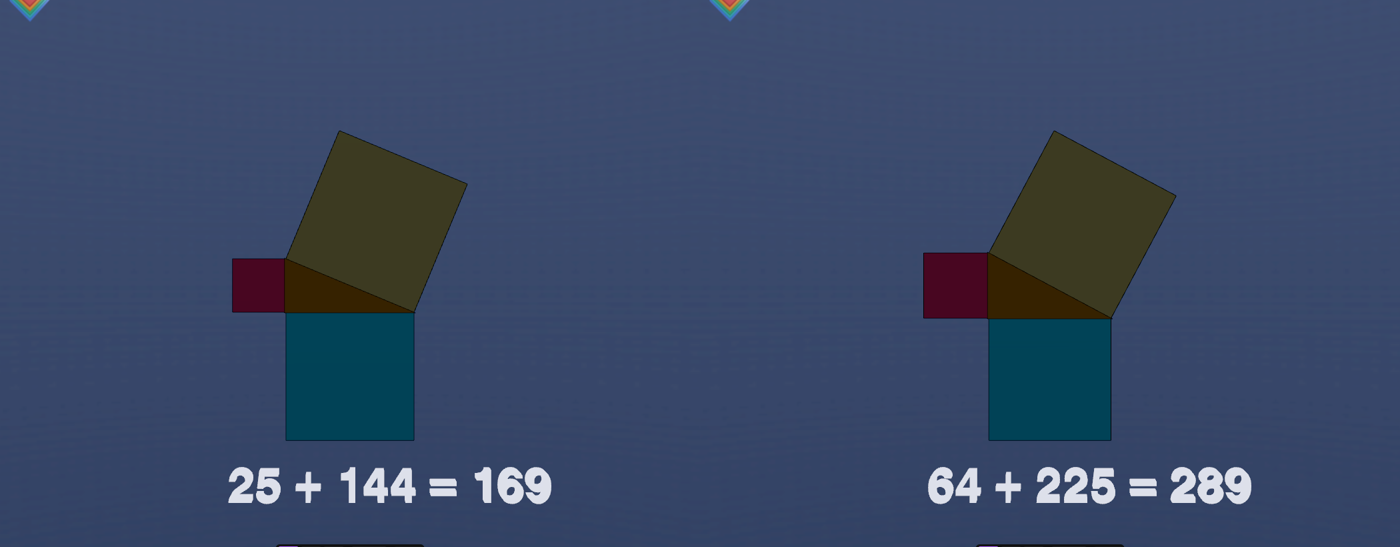
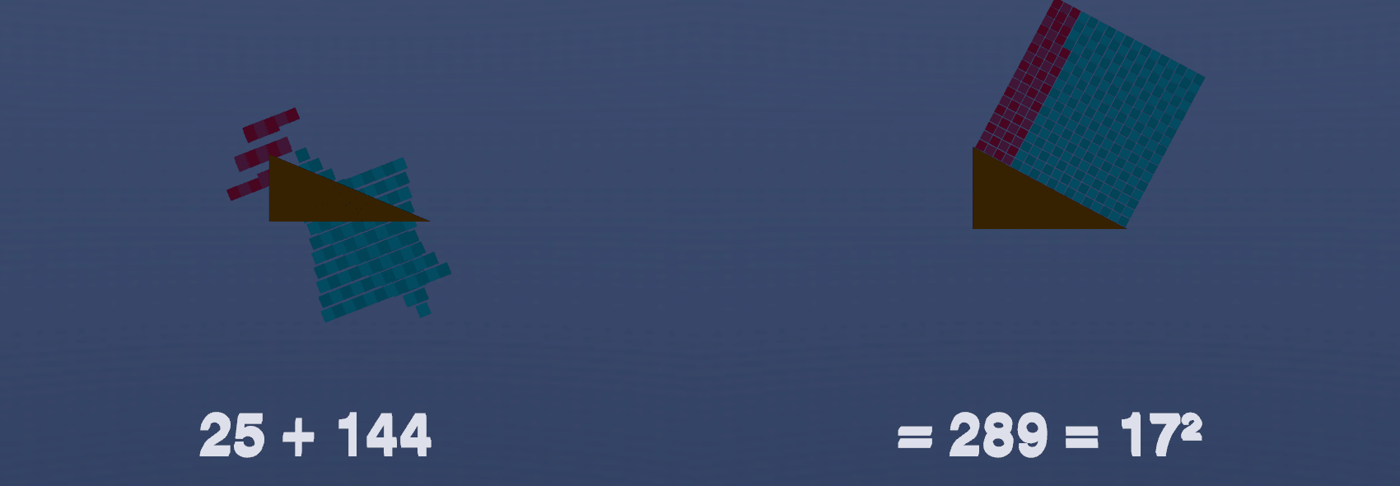
Pythagorean short: the 5-12-13 and 8-15-17 triples move their tiles onto the hypotenuse too
Tiles in a checkerboard on each leg, an empty landing pad of cell groups on
the hypotenuse, moveToEach over 3 s, as in the 3-4-5. Tutorial rebuilt around
it and checked against the published scene (22 tracks, 23 cues, 14 frames).

diff --git a/docs/about/tutorials/makeshort.html b/docs/about/tutorials/makeshort.html
@@ -312,11 +312,12 @@ $S('#eqn').at(60).change('a\u00B2 + b\u00B2 = c\u00B2', { transition: 'fade', du
 	<div class="note"><strong>A label per track.</strong> The two merging labels are faded out with one <code>$S</code> call each (not <code>$S('#three, #four')</code>), so each label keeps its own timeline track and the code panel reads label by label. Content is a step function: the text <em>is</em> whatever was keyed last; <code>transition: 'fade'</code> only cross-fades the swap (see <a href="../../../guides/ANIMATION.md">the animation guide</a>).</div>
 
 	<h2><span class="step">9</span> Two more triples, a quarter turn apart</h2>
-	<p class="lede">3-4-5 is not the only right triangle with whole-number sides. Two more, 5-12-13 and 8-15-17, get the same picture — a square on each leg and one on the hypotenuse — and they are placed around the camera instead of in front of it: the camera starts facing the first, and every quarter turn about Y (90°) brings the next into view. <code>makeTriple</code> builds one from its two legs and hypotenuse, scales it to about the height of the 3-4-5 so it fills the frame the same way, and turns it to face the camera that will be looking at it:</p>
-	<pre><code>// A Pythagorean triple p-q-c, laid out like the 3-4-5: a square on each leg and one on the hypotenuse.
-// The whole figure is scaled to about the height of the 3-4-5 and turned to face `yaw` degrees.
+	<p class="lede">3-4-5 is not the only right triangle with whole-number sides. Two more, 5-12-13 and 8-15-17, get the same treatment — tiles in a square on each leg that fly onto the square on the hypotenuse — and they are placed around the camera instead of in front of it: the camera starts facing the first, and every quarter turn about Y (90°) brings the next into view. <code>makeTriple</code> builds one from its two legs and hypotenuse, scales it to about the height of the 3-4-5 so it fills the frame the same way, and turns it to face the camera that will be looking at it. The hypotenuse square is made of <em>empty</em> groups, one per cell, because the tiles only need somewhere to land: they are never drawn.</p>
+	<pre><code>// A Pythagorean triple p-q-c, laid out like the 3-4-5 and built the same way: unit tiles in a square on
+// each leg, and an empty landing pad on the hypotenuse for them to fly onto. The figure is scaled to
+// about the height of the 3-4-5 and turned to face `yaw` degrees.
 function makeTriple(id, p, q, c, target, yaw) {
-  const k = 10 / (2 * q + p);                  // about the height of the 3-4-5 on screen
+  const k = 10 / (2 * q + p);
   const thin = 0.1 / k;                        // slab thickness, 0.1 in world units
   const outer = new Group();
   outer.name = id;
@@ -327,34 +328,62 @@ function makeTriple(id, p, q, c, target, yaw) {
   figure.position.set(-q / 2, -p / 2, 0);      // put the figure's bounding box on the target
   outer.add(figure);
 
-  const part = (name, geometry, material, x, y, rotZ) =&gt; {
-    const mesh = new Mesh(geometry, material);
-    mesh.name = `${id}-${name}`;
-    mesh.position.set(x, y, 0);
-    mesh.rotation.z = rotZ;
-    mesh.castShadow = mesh.receiveShadow = true;
-    mesh.userData.hasEdgeOutline = true;
-    figure.add(mesh);
+  const group = (name, x, y, rotZ) =&gt; {
+    const g = new Group();
+    g.name = `${id}-${name}`;
+    g.position.set(x, y, 0);
+    g.rotation.z = rotZ;
+    figure.add(g);
+    return g;
   };
-  const slab = (side, color) =&gt; [
-    new BoxGeometry(side, side, thin),
-    new MeshStandardMaterial({ color, roughness: 0.6, metalness: 0.2 })
-  ];
-  const triangle = new ExtrudeGeometry(
-    new Shape([new Vector2(0, 0), new Vector2(q, 0), new Vector2(0, p)]),
-    { depth: 1 / k, bevelEnabled: false }
+
+  const triangle = new Mesh(
+    new ExtrudeGeometry(new Shape([new Vector2(0, 0), new Vector2(q, 0), new Vector2(0, p)]), { depth: 1 / k, bevelEnabled: false }),
+    new MeshStandardMaterial({ color: 0xd99b30, roughness: 0.9, metalness: 1 })
   );
-  triangle.translate(0, 0, -0.5 / k);
-  part('tri', triangle, new MeshStandardMaterial({ color: 0xd99b30, roughness: 0.9, metalness: 1 }), 0, 0, 0);
-  part('p', ...slab(p, 0xff6b6b), -p / 2, p / 2, 0);                       // on the vertical leg
-  part('q', ...slab(q, 0x4ecdc4), q / 2, -q / 2, 0);                       // under the horizontal leg
-  part('c', ...slab(c, 0xffe08a), (p + q) / 2, (p + q) / 2, Math.atan2(q, p));   // on the hypotenuse
+  triangle.geometry.translate(0, 0, -0.5 / k);
+  triangle.name = `${id}-tri`;
+  figure.add(triangle);
+
+  // n x n tiles; tile (i, j) is centred at place(i, j). One shared geometry, and two shades in a
+  // checkerboard, so single tiles stay visible even when they are only a few pixels wide.
+  const square = (name, n, color, place) =&gt; {
+    const g = group(name, 0, 0, 0);
+    const geometry = new BoxGeometry(0.9, 0.9, thin);
+    const shade = [color, new Color(color).offsetHSL(0, 0, 0.09)].map(c =&gt; new MeshStandardMaterial({ color: c, roughness: 0.6, metalness: 0.2 }));
+    for (let i = 1; i &lt;= n; i++) {
+      for (let j = 1; j &lt;= n; j++) {
+        const tile = new Mesh(geometry, shade[(i + j) % 2]);
+        tile.name = `${id}-${name}.${i}.${j}`;
+        tile.position.set(...place(i, j), 0);
+        g.add(tile);
+      }
+    }
+  };
+  square('p', p, 0xff6b6b, (i, j) =&gt; [j - 0.5 - p, i - 0.5]);     // on the vertical leg
+  square('q', q, 0x4ecdc4, (i, j) =&gt; [j - 0.5, 0.5 - i]);         // under the horizontal leg
+
+  // the hypotenuse square: c x c empty groups, turned onto the slope, no geometry at all
+  const pad = group('pad', q, 0, Math.atan2(q, p));
+  for (let i = 1; i &lt;= c; i++) {
+    for (let j = 1; j &lt;= c; j++) {
+      const cell = new Group();
+      cell.name = `${id}-cell.${i}.${j}`;
+      cell.position.set(j - 0.5, c + 0.5 - i, 0);
+      pad.add(cell);
+    }
+  }
 
   editor.execute(new AddObjectCommand(editor, outer));
 }
 
 makeTriple('t2', 5, 12, 13, [-17, 0.68, 20], 90);    // a quarter turn to the camera's left
-makeTriple('t3', 8, 15, 17, [3, 0.68, 40], 180);     // behind the camera's start</code></pre>
+makeTriple('t3', 8, 15, 17, [3, 0.68, 40], 180);     // behind the camera's start
+
+$S('#t2-p &gt; *, #t2-q &gt; *, #t3-p &gt; *, #t3-q &gt; *').addClass('tile');
+$S('#t2-pad &gt; *, #t3-pad &gt; *').addClass('cell');
+[$S('.tile').nodes.length, $S('.cell').nodes.length]   // [458, 458]</code></pre>
+	<div class="note"><strong>Why these tiles have no black borders.</strong> The 3-4-5 tiles draw a border by carrying a child line object, and a class on a node also matches everything inside it, so <code>.cube</code> matches both the tiles and their borders. That is harmless when every target is a tile too, but here the targets are empty groups with no borders, so a selector that matched borders would pair the wrong things. These tiles are therefore plain meshes (a little under 1 wide, so a gap shows) in two shades laid out like a checkerboard. They share one geometry and two materials per square; the editor logs a warning that a shared material is animated on several nodes, which is exactly what the fade-in wants.</div>
 	<div class="note"><strong>Why the yaw is the group's own rotation.</strong> A camera that has turned <var>yaw</var>° about Y looks along a direction that turns with it, and an object with the same <code>rotation.y</code> has its front toward that camera. So the triple at <code>[-17, 0.68, 20]</code> (20 units to the left of the camera) is turned 90°, the one at <code>[3, 0.68, 40]</code> (20 units behind it) 180°, and the end card on the right 270° (−90°). Because the figure is built inside a scaled, turned group, every position inside it is written in the figure's own flat frame, exactly like the 3-4-5.</div>
 	<p>Each triple gets one caption, copied from the <code>eqn</code> label so it keeps the font, the glow and the size, then placed below its figure in the figure's own frame:</p>
 	<pre><code>// One caption per triple, copied from the first label so it keeps the font, the glow and the size.
@@ -372,30 +401,30 @@ function makeCaption(name, target, yaw) {
 makeCaption('eqn2', [-17, 0.68, 20], 90);
 makeCaption('eqn3', [3, 0.68, 40], 180);
 $S('#eqn2, #eqn3').addClass('label');</code></pre>
-	<p>Now the clock. The existing film is untouched up to 65&nbsp;s, where the theorem has been on screen for five seconds. From there each triple gets 16&nbsp;seconds: a 2.5-second quarter turn, the triangle, then one square at a time with its area as the caption, ending on the sum:</p>
-	<pre><code>// 65-81 s: a quarter turn to the right-hand side, the 5-12-13 triple
+	<p>Now the clock. The existing film is untouched up to 65&nbsp;s, where the theorem has been on screen for five seconds. From there each triple gets 16&nbsp;seconds, and they follow the same beat as the 3-4-5: a 2.5-second quarter turn, the triangle, the two squares of tiles fading in one at a time with their areas as captions, then all the tiles flying onto the hypotenuse square (3 seconds, in selector-list order, so the first leg's tiles take the first cells), ending on the sum:</p>
+	<pre><code>// 65-81 s: a quarter turn to the left, the 5-12-13 triple
 $S('#eqn2').at(0).change('');
 $S('#PerspectiveCamera').at(65).animate({ to: { rotation: [0, 90, 0] } }, 2500);
 $S('#t2-tri').at(66.5).fadeIn(1);
-$S('#t2-p').at(68.5).fadeIn(1);
-$S('#eqn2').at(68.5).change('5\u00B2 = 25', { transition: 'fade', dur: 400 });
-$S('#t2-q').at(71).fadeIn(1);
-$S('#eqn2').at(71).change('12\u00B2 = 144', { transition: 'fade', dur: 400 });
-$S('#t2-c').at(73.5).fadeIn(1);
-$S('#eqn2').at(73.5).change('13\u00B2 = 169', { transition: 'fade', dur: 400 });
-$S('#eqn2').at(76).change('25 + 144 = 169', { transition: 'fade', dur: 400 });
+$S('#t2-p .tile').at(68).fadeIn(1);
+$S('#eqn2').at(68).change('5\u00B2 = 25', { transition: 'fade', dur: 400 });
+$S('#t2-q .tile').at(70).fadeIn(1);
+$S('#eqn2').at(70).change('12\u00B2 = 144', { transition: 'fade', dur: 400 });
+$S('#t2-p .tile, #t2-q .tile').at(72.5).moveToEach('#t2-pad .cell', 3000);
+$S('#eqn2').at(72.5).change('25 + 144', { transition: 'fade', dur: 400 });
+$S('#eqn2').at(75.5).change('= 169 = 13\u00B2', { transition: 'fade', dur: 400 });
 
 // 81-97 s: another quarter turn, the 8-15-17 triple
 $S('#eqn3').at(0).change('');
 $S('#PerspectiveCamera').at(81).animate({ to: { rotation: [0, 180, 0] } }, 2500);
 $S('#t3-tri').at(82.5).fadeIn(1);
-$S('#t3-p').at(84.5).fadeIn(1);
-$S('#eqn3').at(84.5).change('8\u00B2 = 64', { transition: 'fade', dur: 400 });
-$S('#t3-q').at(87).fadeIn(1);
-$S('#eqn3').at(87).change('15\u00B2 = 225', { transition: 'fade', dur: 400 });
-$S('#t3-c').at(89.5).fadeIn(1);
-$S('#eqn3').at(89.5).change('17\u00B2 = 289', { transition: 'fade', dur: 400 });
-$S('#eqn3').at(92).change('64 + 225 = 289', { transition: 'fade', dur: 400 });</code></pre>
+$S('#t3-p .tile').at(84).fadeIn(1);
+$S('#eqn3').at(84).change('8\u00B2 = 64', { transition: 'fade', dur: 400 });
+$S('#t3-q .tile').at(86).fadeIn(1);
+$S('#eqn3').at(86).change('15\u00B2 = 225', { transition: 'fade', dur: 400 });
+$S('#t3-p .tile, #t3-q .tile').at(88.5).moveToEach('#t3-pad .cell', 3000);
+$S('#eqn3').at(88.5).change('64 + 225', { transition: 'fade', dur: 400 });
+$S('#eqn3').at(91.5).change('= 289 = 17\u00B2', { transition: 'fade', dur: 400 });</code></pre>
 
 	<h2><span class="step">10</span> The last quarter turn: the end card</h2>
 	<p class="lede">The camera does not travel anywhere, even now: one more 90° turn about Y, to 270°, points it at the end card that was placed 15 units to its right in step 5, while the card fades in. At 8× scale and a 50° field of view it fills the frame.</p>
@@ -403,8 +432,8 @@ $S('#eqn3').at(92).change('64 + 225 = 289', { transition: 'fade', dur: 400 });</
 $S('#callcard').at(97.5).fadeIn(3);
 $S('#PerspectiveCamera').at(97).animate({ to: { rotation: [0, 270, 0] } }, 2500);</code></pre>
 	<figure>
-		<img src="screenshots/pythagorean-triples.png" alt="Two frames side by side: the 5-12-13 triple with its three squares and the caption 25 + 144 = 169, and the 8-15-17 triple with the caption 64 + 225 = 289." loading="lazy">
-		<figcaption>The two extra triples at the end of their beats: 25 + 144 = 169 on the left, 64 + 225 = 289 on the right.</figcaption>
+		<img src="screenshots/pythagorean-triples.png" alt="Two frames side by side: left, the 5-12-13 triple mid-flight, with red and teal tiles tumbling from the two leg squares towards the hypotenuse; right, the 8-15-17 triple after landing, with the tiles filling the square on the hypotenuse." loading="lazy">
+		<figcaption>The same dissection on the other triples: 5-12-13 mid-flight on the left (73.5 s), 8-15-17 landed on the right (94 s).</figcaption>
 	</figure>
 	<p>The timeline now runs 100.5 seconds, and the render holds the last frame for two more. The theorem stays on screen from 60 to 65&nbsp;s before the camera turns away from it. This is the whole cut sheet:</p>
 	<table class="cuts">
@@ -419,9 +448,9 @@ $S('#PerspectiveCamera').at(97).animate({ to: { rotation: [0, 270, 0] } }, 2500)
 		<tr><td>47 – 53</td><td>"9 + 16", then the two numbers close up</td></tr>
 		<tr><td>53 – 65</td><td>"25" (3.5 s), "5²" (3.5 s), then "a² + b² = c²" (5 s)</td></tr>
 		<tr><td>65 – 67.5</td><td>The camera turns 90° to the left, to the 5-12-13 triple</td></tr>
-		<tr><td>66.5 – 76</td><td>Triangle, then the squares on 5, 12 and 13, captions "5² = 25", "12² = 144", "13² = 169", then "25 + 144 = 169" (held to 81)</td></tr>
+		<tr><td>66.5 – 75.5</td><td>Triangle; the 5×5 tiles (68 s) and 12×12 tiles (70 s) fade in with "5² = 25" and "12² = 144"; at 72.5 all 169 tiles fly onto the hypotenuse square, "25 + 144", then "= 169 = 13²" (held to 81)</td></tr>
 		<tr><td>81 – 83.5</td><td>Another 90° turn, round to the 8-15-17 triple</td></tr>
-		<tr><td>82.5 – 92</td><td>The same beats: "8² = 64", "15² = 225", "17² = 289", then "64 + 225 = 289" (held to 97)</td></tr>
+		<tr><td>82.5 – 91.5</td><td>The same beats: "8² = 64" (84 s), "15² = 225" (86 s), all 289 tiles fly over at 88.5, "64 + 225", then "= 289 = 17²" (held to 97)</td></tr>
 		<tr><td>97 – 100.5</td><td>The last 90° turn, to the call card, which fades in</td></tr>
 	</table>
 
@@ -440,16 +469,16 @@ $S('#PerspectiveCamera').at(97).animate({ to: { rotation: [0, 270, 0] } }, 2500)
   { start: 53.0, end: 56.3, text: '25 tiles fill it exactly.' },
   { start: 56.6, end: 59.8, text: 'And 25 is 5\u00B2:\nthe square on the slanted side.' },
   { start: 60.0, end: 64.8, text: 'In every right triangle:\na\u00B2 + b\u00B2 = c\u00B2' },
-  { start: 66.0, end: 68.4, text: 'Does it hold for other triples?' },
-  { start: 68.5, end: 70.9, text: 'The square on the 5 side: 25.' },
-  { start: 71.0, end: 73.4, text: 'On the 12 side: 144.' },
-  { start: 73.5, end: 75.9, text: 'On the slanted side: 13\u00B2 = 169.' },
-  { start: 76.0, end: 80.5, text: '25 + 144 = 169.\nIt holds.' },
-  { start: 82.5, end: 84.4, text: 'One more: 8, 15, 17.' },
-  { start: 84.5, end: 86.9, text: 'The square on the 8 side: 64.' },
-  { start: 87.0, end: 89.4, text: 'On the 15 side: 225.' },
-  { start: 89.5, end: 91.9, text: 'On the slanted side: 17\u00B2 = 289.' },
-  { start: 92.0, end: 96.5, text: '64 + 225 = 289.\nIt holds again.' },
+  { start: 66.0, end: 67.9, text: 'Does it hold for other triples?' },
+  { start: 68.0, end: 69.9, text: 'The square on the 5 side:\n25 tiles.' },
+  { start: 70.0, end: 72.4, text: 'On the 12 side: 144 tiles.' },
+  { start: 72.5, end: 75.4, text: 'Do they fill the slanted side?' },
+  { start: 75.6, end: 80.5, text: 'Exactly: 169 tiles.\n5\u00B2 + 12\u00B2 = 13\u00B2.' },
+  { start: 82.5, end: 83.9, text: 'One more: 8, 15, 17.' },
+  { start: 84.0, end: 85.9, text: 'The square on the 8 side:\n64 tiles.' },
+  { start: 86.0, end: 88.4, text: 'On the 15 side: 225 tiles.' },
+  { start: 88.5, end: 91.4, text: 'Do they fit again?' },
+  { start: 91.6, end: 96.5, text: 'Exactly: 289 tiles.\n8\u00B2 + 15\u00B2 = 17\u00B2.' },
   { start: 98.0, end: 100.5, text: 'Made with Strata.' },
 ]).length   // 23</code></pre>
 	<div class="note"><strong>Writing cues that fit the picture.</strong> Each cue starts with the thing it describes (the leg at 6 and 9&nbsp;s, the unfolding square at 14 and 24&nbsp;s) and ends before the next beat; none is longer than two short lines, and none overlaps another. Keep a cue on screen at least about a second for every fifteen characters. <code>exportSrt()</code> returns the same cues as <code>.srt</code> text.</div>
@@ -469,8 +498,8 @@ $S('#PerspectiveCamera').at(97).animate({ to: { rotation: [0, 270, 0] } }, 2500)
 	<div class="note"><strong>Everything above is git-versioned.</strong> Commit from the Git tab whenever you like — the timeline, the geometry, and the call-card <em>reference</em> (never a copy of its pixels) all round-trip through the same scene JSON. See <a href="../../../guides/ANIMATION.md">the animation guide</a> and <a href="../../../guides/CALLCARD.md">the call-card guide</a> for the full grammar this tutorial only samples.</div>
 
 	<h2 id="open-finished"><span class="step">13</span> Open the finished scene</h2>
-	<p class="lede"><a href="../../#repo=tejaswigowda/test1&amp;file=pyth.json&amp;branch=main">pyth.json</a> in <code>tejaswigowda/test1</code> is the scene these blocks build: 50 tiles in 12 lines, the triangle, the three labels, the camera, the background and the call card, plus the two extra triples with their captions, with the same 22 timeline tracks, the same 100.5-second clock and the same 23 subtitle cues. Open it, then scrub the Animations tab: at 24&nbsp;s the 3×3 has unfolded, at 43&nbsp;s all 25 tiles sit on the pad, at 78&nbsp;s the 5-12-13 sum is on screen, at 94&nbsp;s the 8-15-17 one, and from 100&nbsp;s the card fills the frame.</p>
-	<div class="note"><strong>What was checked, and what differs.</strong> Every block on this page was pasted, one paste at a time, into an empty scene, with the three Text stencils, the Call card stencil and <strong>+ Add Shot</strong> clicked where the text says so. The result was compared with <code>pyth.json</code>: the same 22 timeline tracks with the same events at the same times, the same 23 subtitle cues word for word, and a frame at each of seventeen times from 0 to 98&nbsp;s that differs from the published one by under 3% of its pixels. The final end-card frame (100&nbsp;s) is the exception: the card is re-baked from the live <a href="../callcard/">/about/callcard</a> page every time a scene loads, so two loads of the same scene can bake differently, and it was not compared. Three small differences are deliberate: the published file keeps its tiles at an offset inside their groups, so two of its <code>positionX</code>/<code>positionY</code> values read 9.4 and 4.4 where yours read 0.4 and −0.6 (the same place in the world); it nests the three labels in a <code>Labels</code> group, which nothing addresses; and its pad cells are numbered in a different order, with the same nine-and-sixteen split. Rendering (step 12) was not re-run for this revision.</div>
+	<p class="lede"><a href="../../#repo=tejaswigowda/test1&amp;file=pyth.json&amp;branch=main">pyth.json</a> in <code>tejaswigowda/test1</code> is the scene these blocks build: 50 tiles in 12 lines, the triangle, the three labels, the camera, the background and the call card, plus the two extra triples (458 more tiles, their landing cells and captions), with the same 22 timeline tracks, the same 100.5-second clock and the same 23 subtitle cues. Open it, then scrub the Animations tab: at 24&nbsp;s the 3×3 has unfolded, at 43&nbsp;s all 25 tiles sit on the pad, at 78&nbsp;s the 5-12-13 sum is on screen, at 94&nbsp;s the 8-15-17 one, and from 100&nbsp;s the card fills the frame.</p>
+	<div class="note"><strong>What was checked, and what differs.</strong> Every block on this page was pasted, one paste at a time, into an empty scene, with the three Text stencils, the Call card stencil and <strong>+ Add Shot</strong> clicked where the text says so. The result was compared with <code>pyth.json</code>: the same 22 timeline tracks with the same events at the same times, the same 23 subtitle cues word for word, and a frame at each of fourteen times from 0 to 98&nbsp;s that differs from the published one by under 3% of its pixels. The final end-card frame (100&nbsp;s) is the exception: the card is re-baked from the live <a href="../callcard/">/about/callcard</a> page every time a scene loads, so two loads of the same scene can bake differently, and it was not compared. Three small differences are deliberate: the published file keeps its tiles at an offset inside their groups, so two of its <code>positionX</code>/<code>positionY</code> values read 9.4 and 4.4 where yours read 0.4 and −0.6 (the same place in the world); it nests the three labels in a <code>Labels</code> group, which nothing addresses; and its pad cells are numbered in a different order, with the same nine-and-sixteen split. Rendering (step 12) was not re-run for this revision. The scene file is now about 4.8&nbsp;MB, nearly all of it baked animation, chiefly the flight paths of the 483 tiles that move; the editor rebuilds them from the timeline on load, so they are a cache, not something to edit.</div>
 
 	<footer>
 		<a href="./">← All tutorials</a> · <a href="../">About</a>
